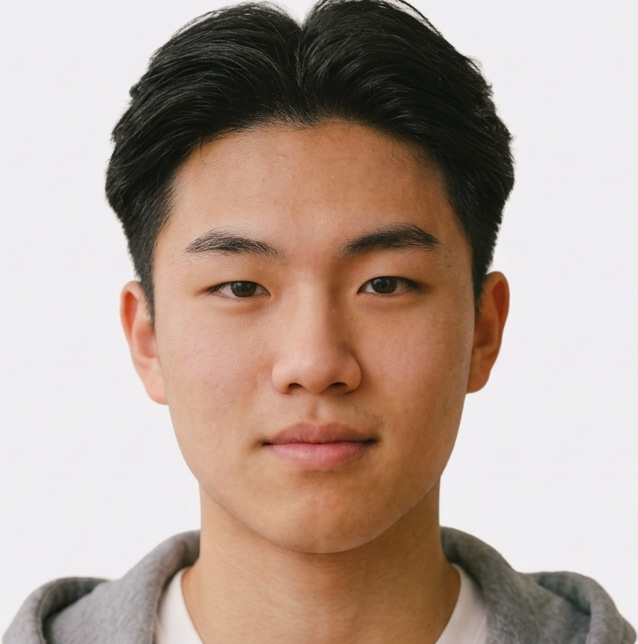
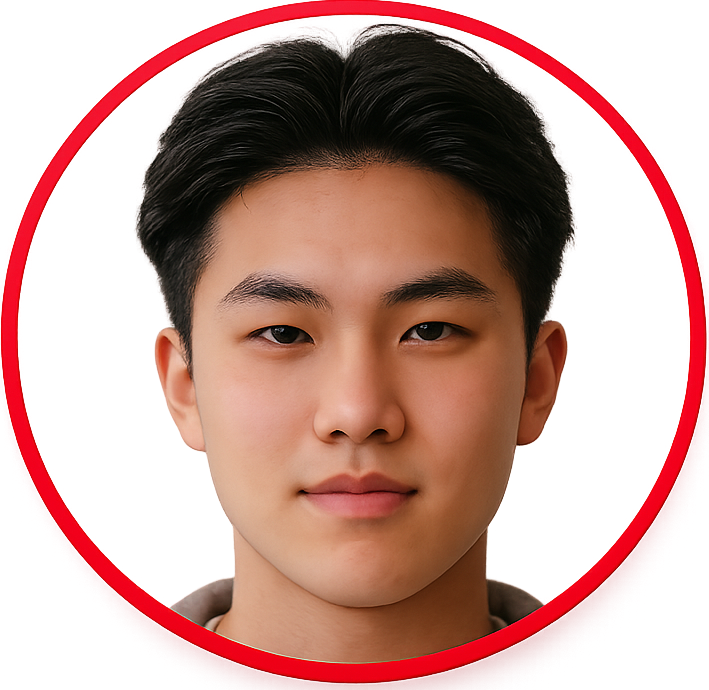
마커사진 추가 update target_profiles.json, 전신사진 추가 및 화질 개선, 크기조절 완료

diff --git a/app/domains/map/static/js/map.js b/app/domains/map/static/js/map.js
@@ -40,18 +40,25 @@ maps.forEach(function(target){
                 image: markerImage
         });
 
+        // REG_DATE 분리>>날짜/시간
+        const[date, time] = target.reg_date.split(",");
 
         //6. Infowindow 내용
         const content = `
         
-        <div class = "info-window">
-            <img src="${imageBaseUrl}${target.image}">
-            <h3>${target.name}</h3>
-            <p>나이: ${target.age}</p>
-            <p>${target.short_description}</p>
-            <p>탐지시간: ${target.reg_date}</p>
-        </div>
-        
+            <div class = "info-window">
+                <img class="full_image"
+                src="${imageBaseUrl}${target.full_image}">
+                <h3>${target.name}</h3>
+                <p>나이: ${target.age}</p>
+                <p><strong>${target.short_description}</strong></p>
+                
+                <p>탐지일</p>
+                <p>${date}</p>
+                
+                <p>탐지시간</p>
+                <p>${time}</p>
+            </div>
         `;
         
         //7. InfoWindow 생성

diff --git a/app/domains/map/static/css/map.css b/app/domains/map/static/css/map.css
@@ -21,12 +21,30 @@ h2 {
     width: 220px;
 }
 
+.info-window {
+    width: 170px;
+    padding: 8px;
+    text-align: center;
+}
+
 
 
 .info-window img {
-    width: 100px;
-    height: 50%;
-    object-fit: cover;
-    border-radius: 4px;
+    width: 110px;
+    max-height: 180px;
+    object-fit: contain;
+    border-radius: 5px;
     image-rendering: auto;
+    display: block;
+    margin: 0 auto 8px;
+}
+
+.info-window h3{
+    margin: 5px 0;
+    font-size: 18px;
+}
+
+.info-window p{
+    font-size: 14px;
+    margin: 2px 0;
 }
